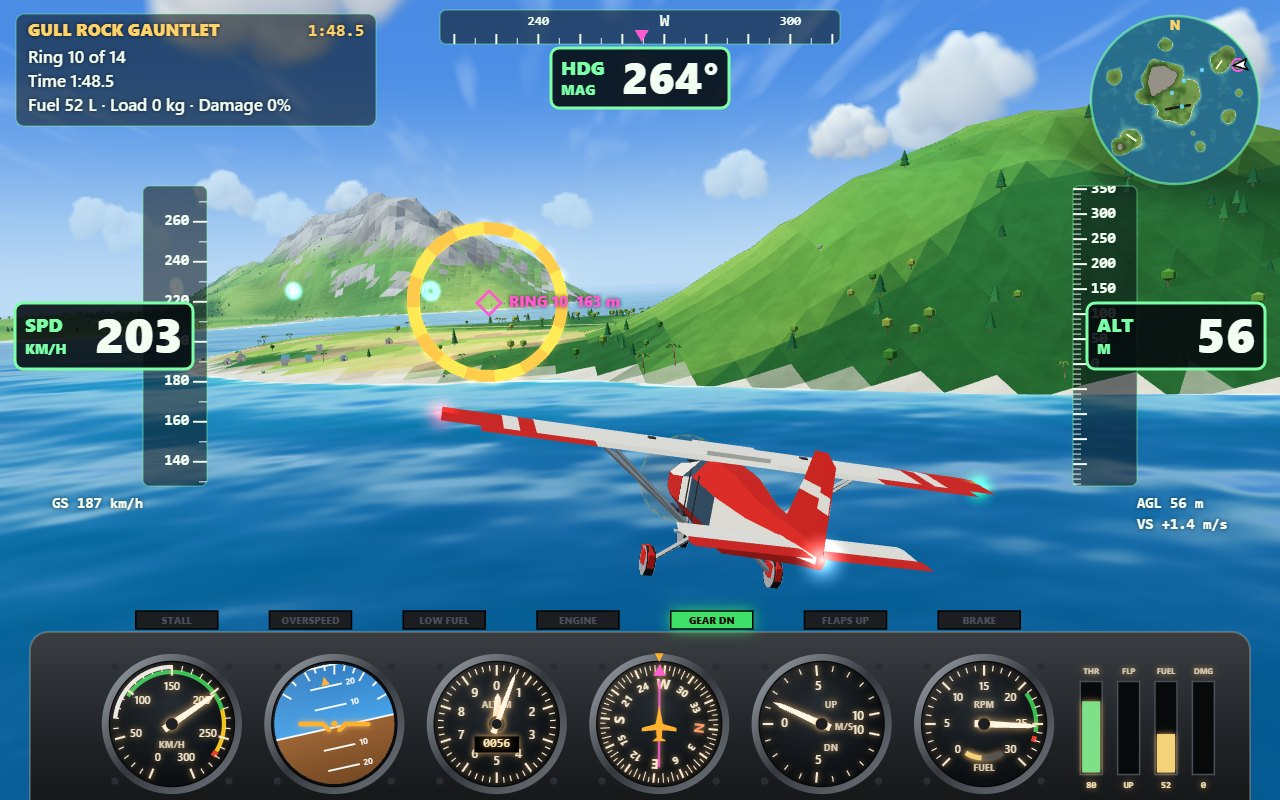
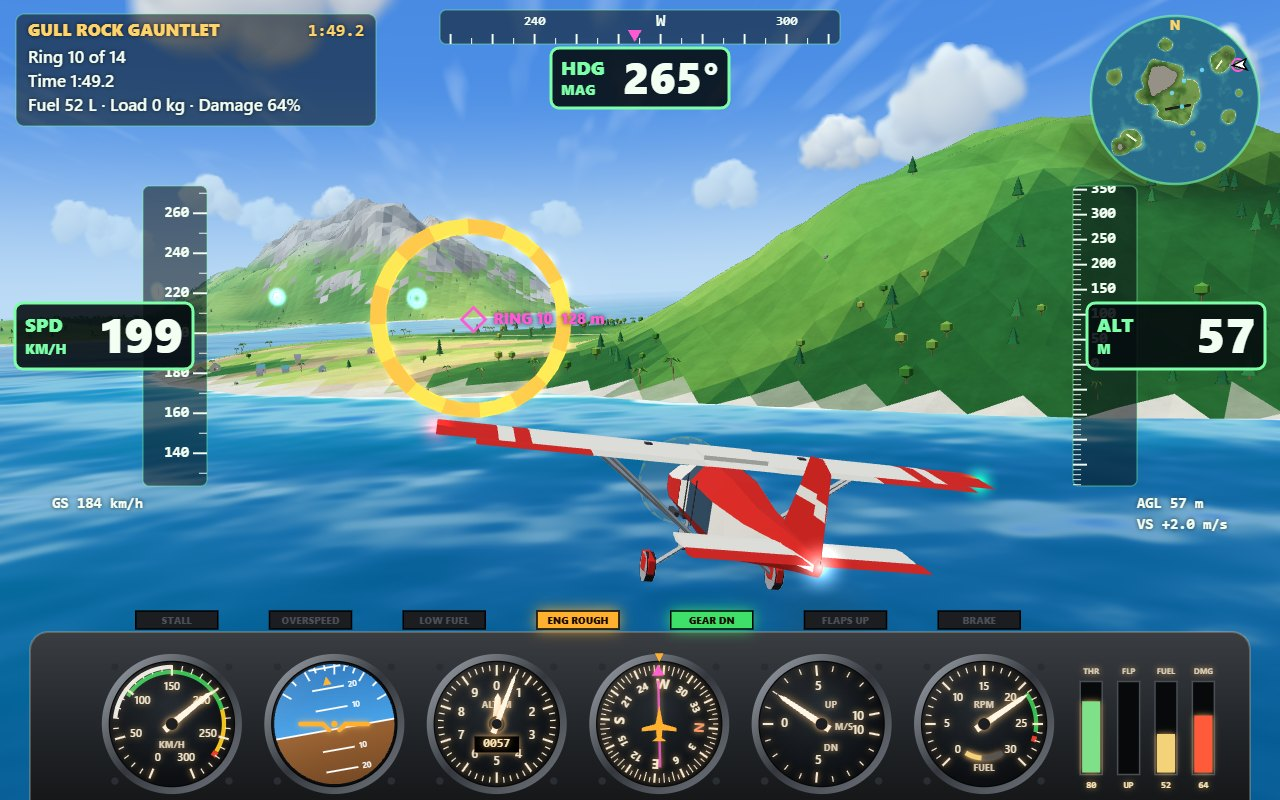
Striped cargo canopy, lighter prop blur, engine damage on the ring-course shot, sortie clock on the cover

diff --git a/game/src/shots.js b/game/src/shots.js
@@ -37,12 +37,13 @@ export function stageShot(name, { game, camera, world, simulate, startMissionAt 
 		const run = start('rings'), i = 9, { pos: r, normal: n } = run.rings[i], h = Math.atan2(n[0], -n[2]) / DEG;
 		run.rings.slice(0, i).forEach((g) => (g.passed = true));
 		Object.assign(run, { ringIndex: i, time: 12 * i, waypoint: { pos: r, label: `RING ${i + 1}` } });
-		place([r[0] - n[0] * 190 + n[2] * 9, r[1] - 3, r[2] - n[2] * 190 - n[0] * 9], h + 3, 1, 14, 52, { throttle: 0.8, fuel: 52 });
-		fly(0.5, { pitch: 0.05, roll: 0, yaw: 0 });
+		place([r[0] - n[0] * 190 + n[2] * 9, r[1] - 3, r[2] - n[2] * 190 - n[0] * 9], h + 3, 1, 14, 52, { throttle: 0.8, fuel: 52, parts: { engine: 64, gear: 0, flaps: 0, airframe: 18 } });
+		fly(1.2, { pitch: 0.05, roll: 0, yaw: 0 });
 		Object.assign(camera, { lookYaw: 0.3, offset: null }).follow(ac(), FRAME, { looking: true, lookDx: 0, lookDy: 0 }, world.terrain.heightAt);
 	} else {
 		const geo = start('approach').geo, p = glidePathPoint(geo, 720, 300);
 		place([p[0] - geo.dir[2] * 6, p[1] + 8, p[2] + geo.dir[0] * 6], geo.heading - 3, -1, -12, 40, { throttle: 0.4 });
+		game.run.time = 43;
 		fly(0.6, { pitch: 0.04, roll: 0, yaw: 0 });
 	}
 }

diff --git a/game/src/prop-meshes.js b/game/src/prop-meshes.js
@@ -5,7 +5,8 @@ import { meshOf } from './mesh-builder.js';
 export const buildCrate = () => meshOf((mb) => mb.box(0, 0, 0, 1.4, 1.1, 1.4, [0.62, 0.42, 0.22, 0]).box(0, 0, 0, 1.46, 0.2, 1.46, [0.85, 0.2, 0.15, 0]));
 
 export const buildChute = () => meshOf((mb) => {
-	mb.blob(0, 7, 0, 4.6, 2.3, 4.6, [0.98, 0.5, 0.16, 0.15], 4, 8, [0.95, 0.92, 0.85, 0.1]);
+	const p = (i, j) => [Math.cos(i * 0.5236) * Math.sin(j * 0.42) * 4.6, 6 + Math.cos(j * 0.42) * 2.3, Math.sin(i * 0.5236) * Math.sin(j * 0.42) * 4.6];
+	for (let i = 0; i < 12; i++) for (let j = 0; j < 4; j++) mb.quad(p(i, j), p(i + 1, j), p(i + 1, j + 1), p(i, j + 1), i % 2 ? [0.97, 0.95, 0.9, 0.1] : [0.98, 0.42, 0.12, 0.15]);
 	for (const [x, z] of [[2, 0], [-2, 0], [0, 2], [0, -2]]) mb.box(x, 3.5, z, 0.06, 6.2, 0.06, [0.9, 0.9, 0.9, 0]);
 });
 

diff --git a/game/src/aircraft-mesh.js b/game/src/aircraft-mesh.js
@@ -101,7 +101,7 @@ function buildBlades(mb) {
 function buildDisc(mb) {
 	const { y, z } = HINGES.prop, p = (i, r) => [Math.cos(i * 0.314) * r, y + Math.sin(i * 0.314) * r, z];
 	for (let i = 0; i < 20; i++) {
-		mb.tri([0, y, z], p(i, 1.04), p(i + 1, 1.04), [0.55, 0.55, 0.55, 0]);
+		mb.tri([0, y, z], p(i, 1.04), p(i + 1, 1.04), [0.8, 0.8, 0.8, 0]);
 		mb.tri(p(i, 1.04), p(i, 0.97), p(i + 1, 1.04), [1, 0.85, 0.3, 0.4]);
 	}
 }
